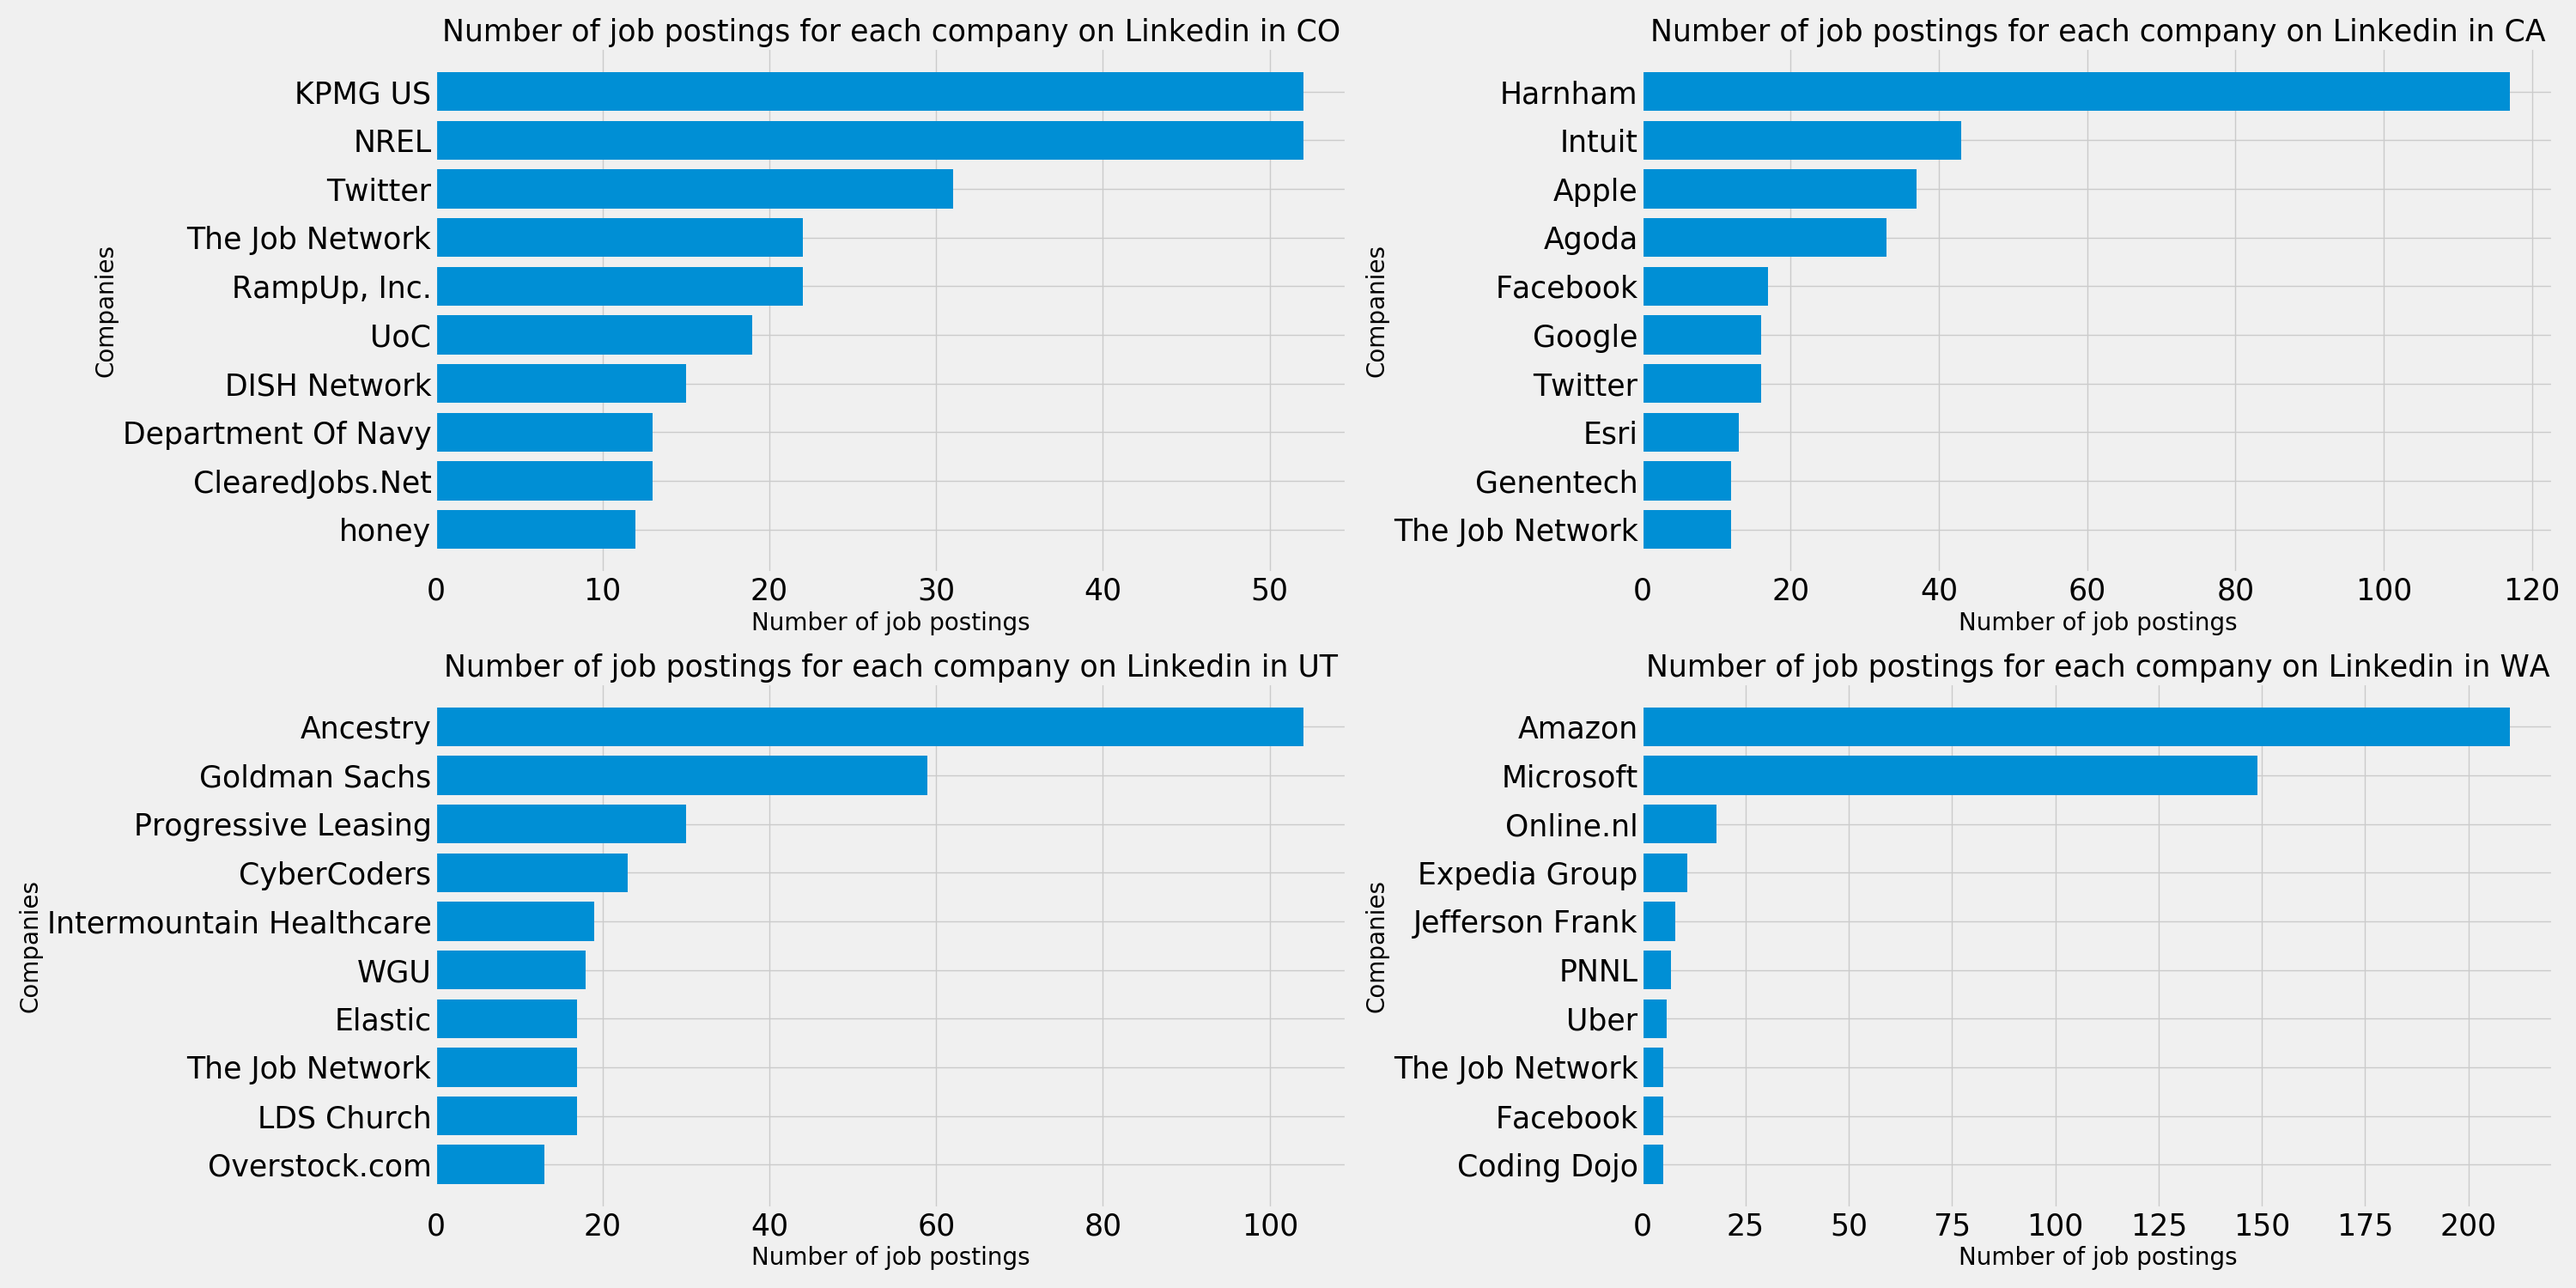
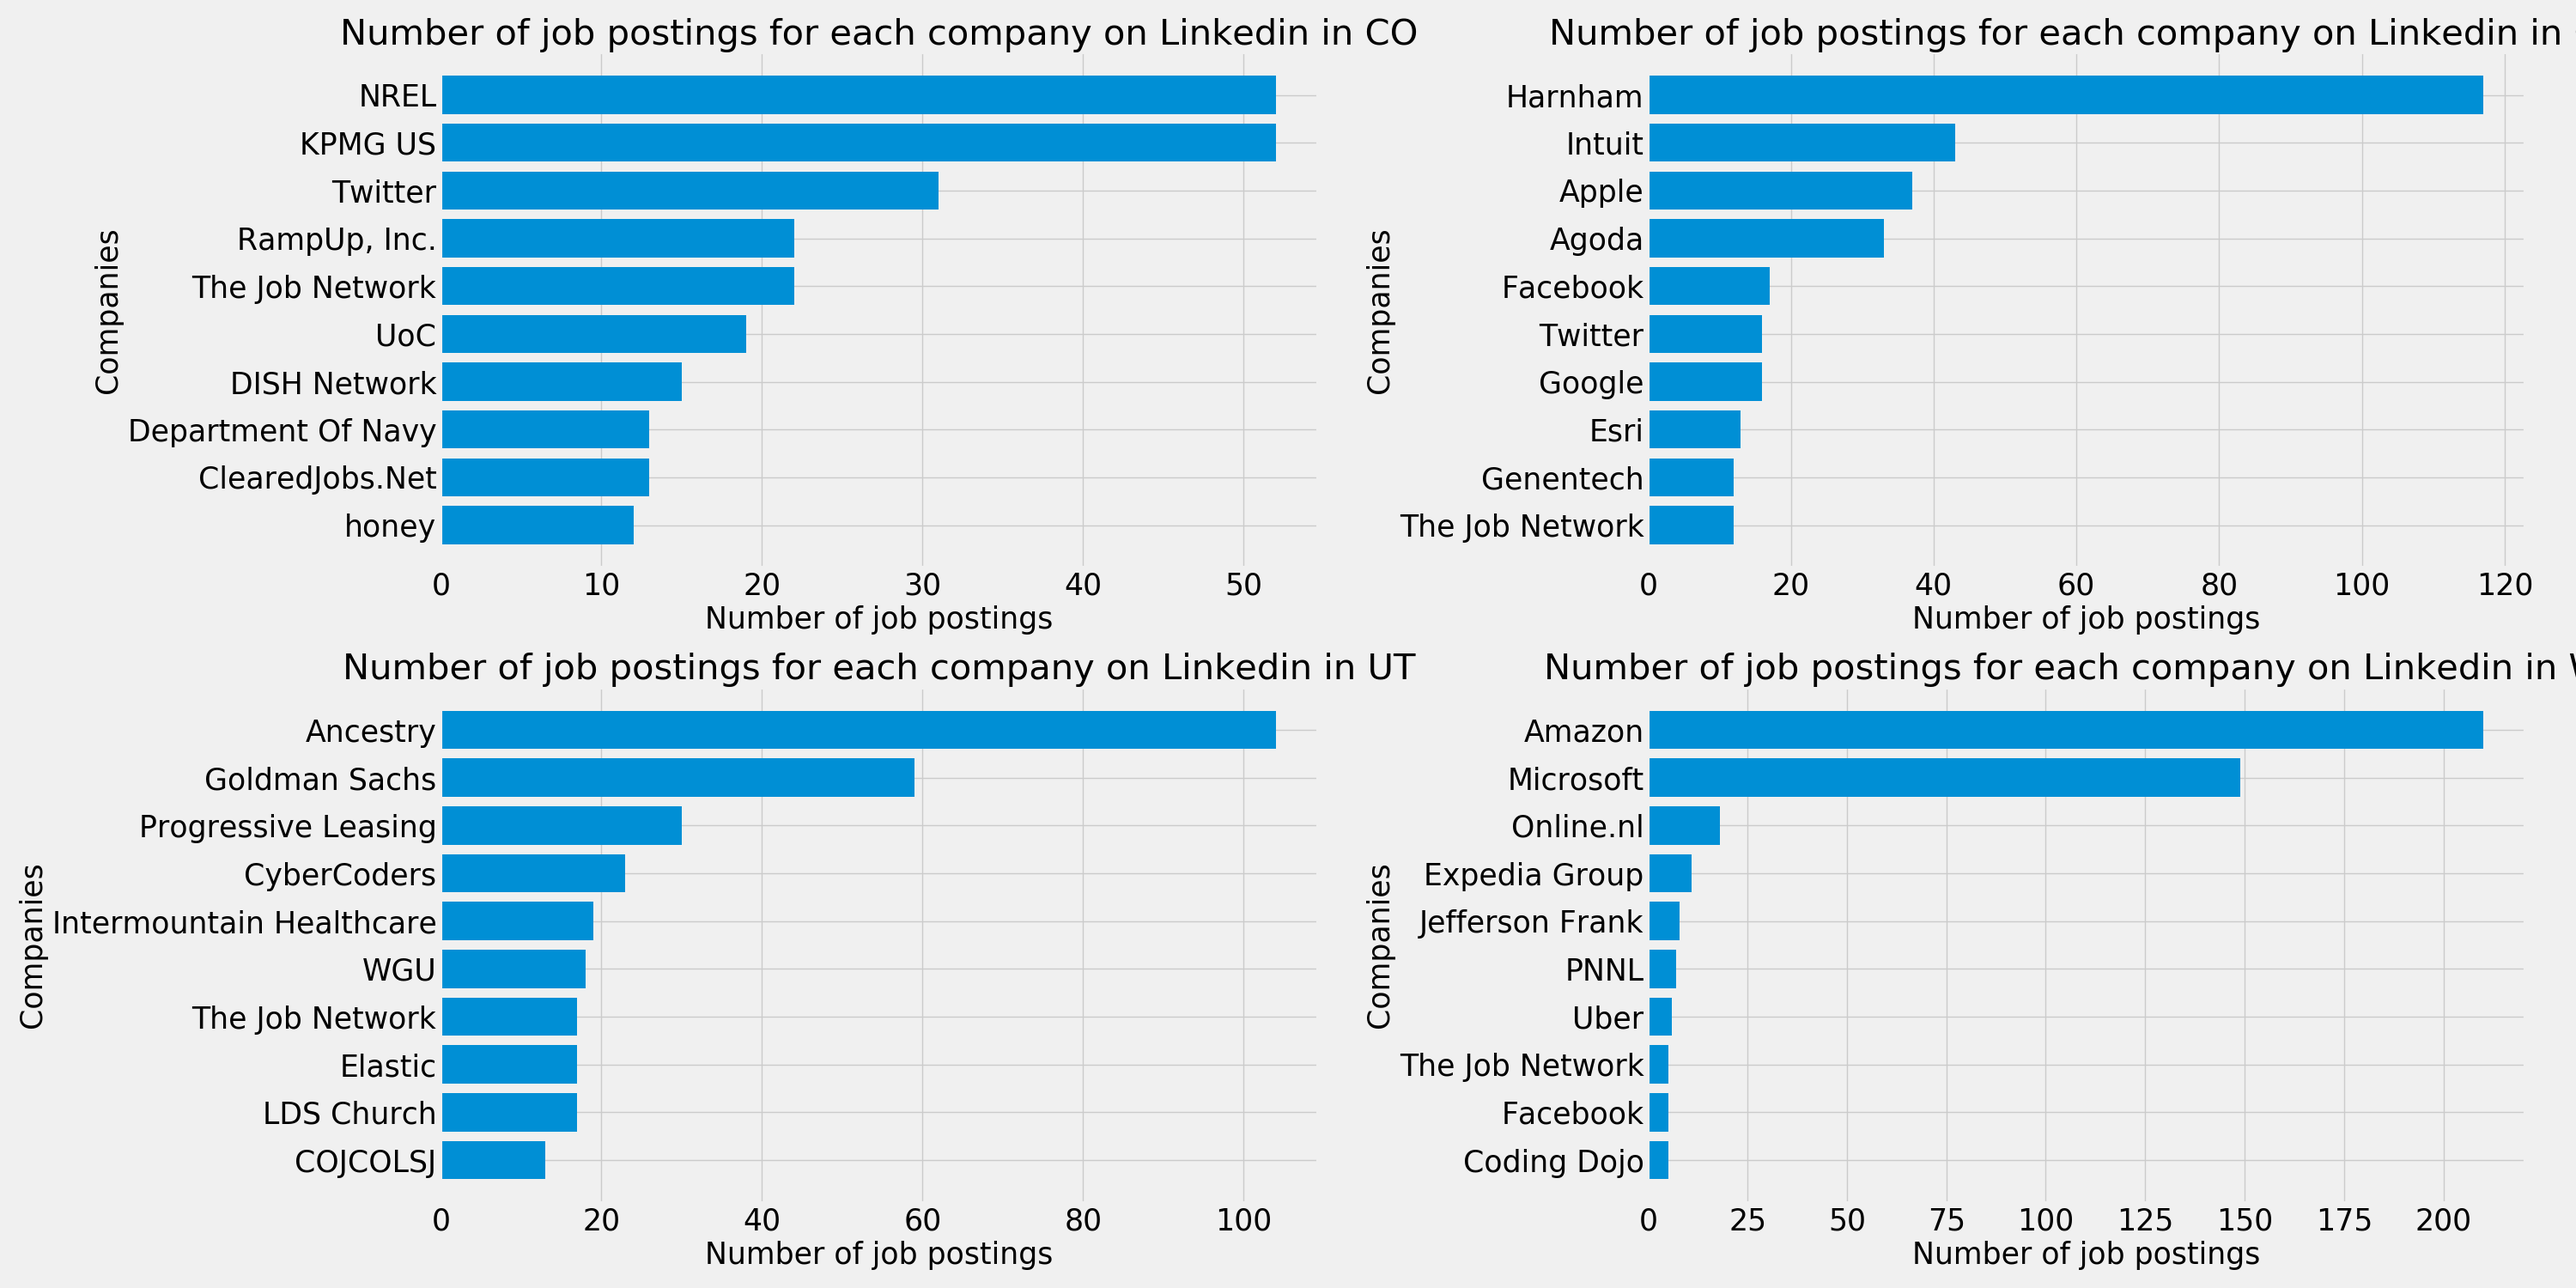
Messing with last graph

diff --git a/src/graphing_eda.py b/src/graphing_eda.py
@@ -122,9 +122,9 @@ def graph_top10_companies(state_id, ax):
 
     ax.barh(companies_state, jobs_state)
 
-    ax.set_xlabel('Number of job postings', fontsize=20)
-    ax.set_ylabel('Companies', fontsize=20)
-    ax.set_title(f'Number of job postings for each company on Linkedin in {state_id}', fontsize=25)
+    ax.set_xlabel('Number of job postings', fontsize=25)
+    ax.set_ylabel('Companies', fontsize=25)
+    ax.set_title(f'Number of job postings for each company on Linkedin in {state_id}', fontsize=30)
     ax.tick_params(axis='both', labelsize=25)
 
 list_of_locs = ['CO', 'CA', 'UT', 'WA']
